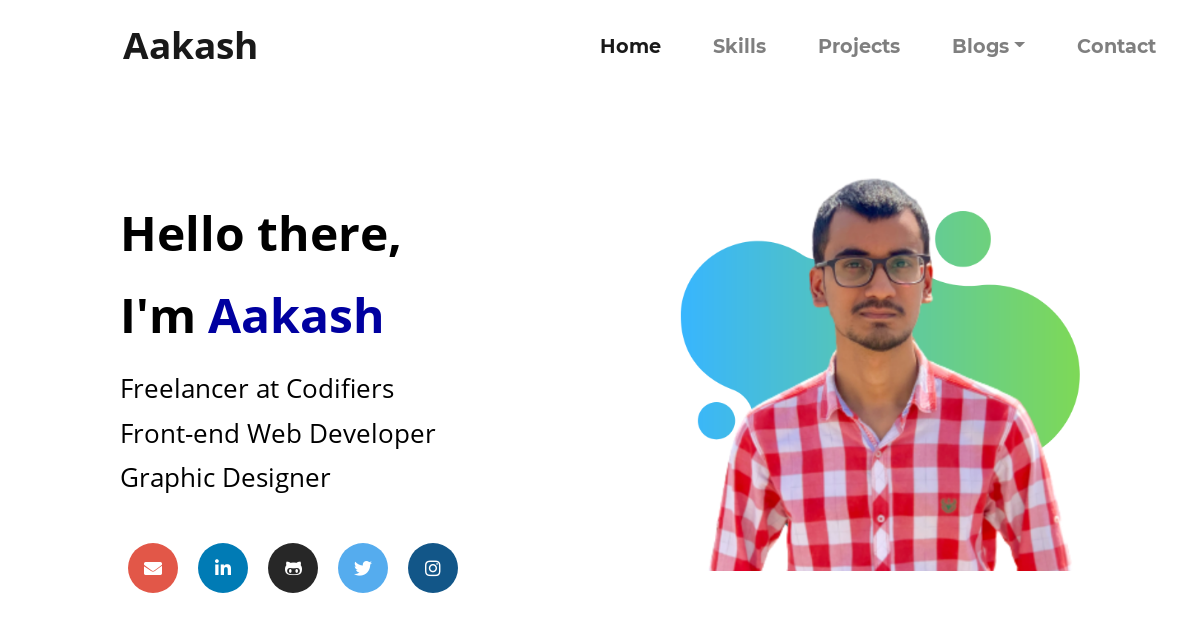
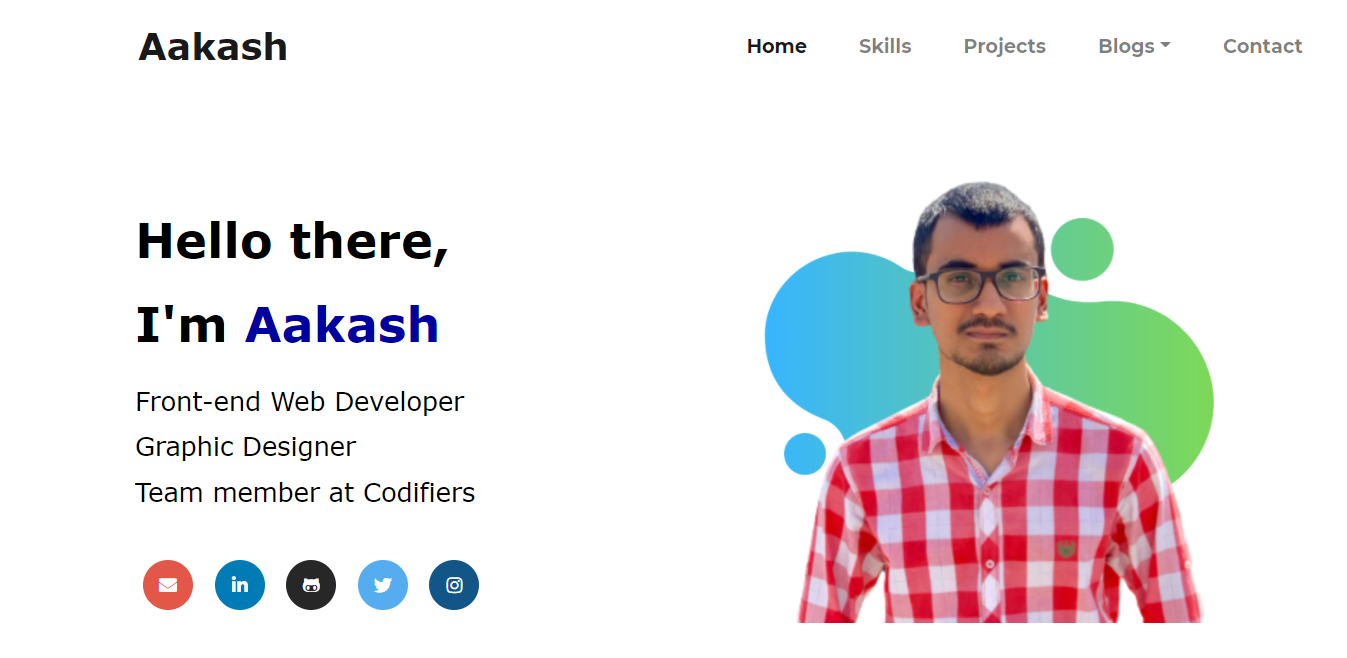
updating screenshots

diff --git a/index.html b/index.html
@@ -96,7 +96,7 @@
           <h2 class="intro">I'm <i class="name">Aakash</i></h2>
           <h2 class="no-padding">Front-end Web Developer</h2>
           <h2 class="no-padding">Graphic Designer</h2>
-          <h2 class="no-padding">Team member at <a class="wecodifiers-link" href="https://wecodifiers.github.io/" target="_blank">WeCodifiers</a></h2>
+          <h2 class="no-padding">Team member at <a class="codifiers-link" href="https://wecodifiers.github.io/" target="_blank">Codifiers</a></h2>
 
           <div class="container-fluid d-block intro-icons">
             <a href="mailto:aakashdwd07@gmail.com" target="_blank" class="fas fa-envelope envelope rounded-circle"></a>

diff --git a/css/styles.css b/css/styles.css
@@ -108,11 +108,11 @@ p {
     font-style: normal;
 }
 
-.wecodifiers-link {
+.codifiers-link {
     color: #000;
 }
 
-.wecodifiers-link:hover {
+.codifiers-link:hover {
     font-size: 1.8rem;
 }
 
